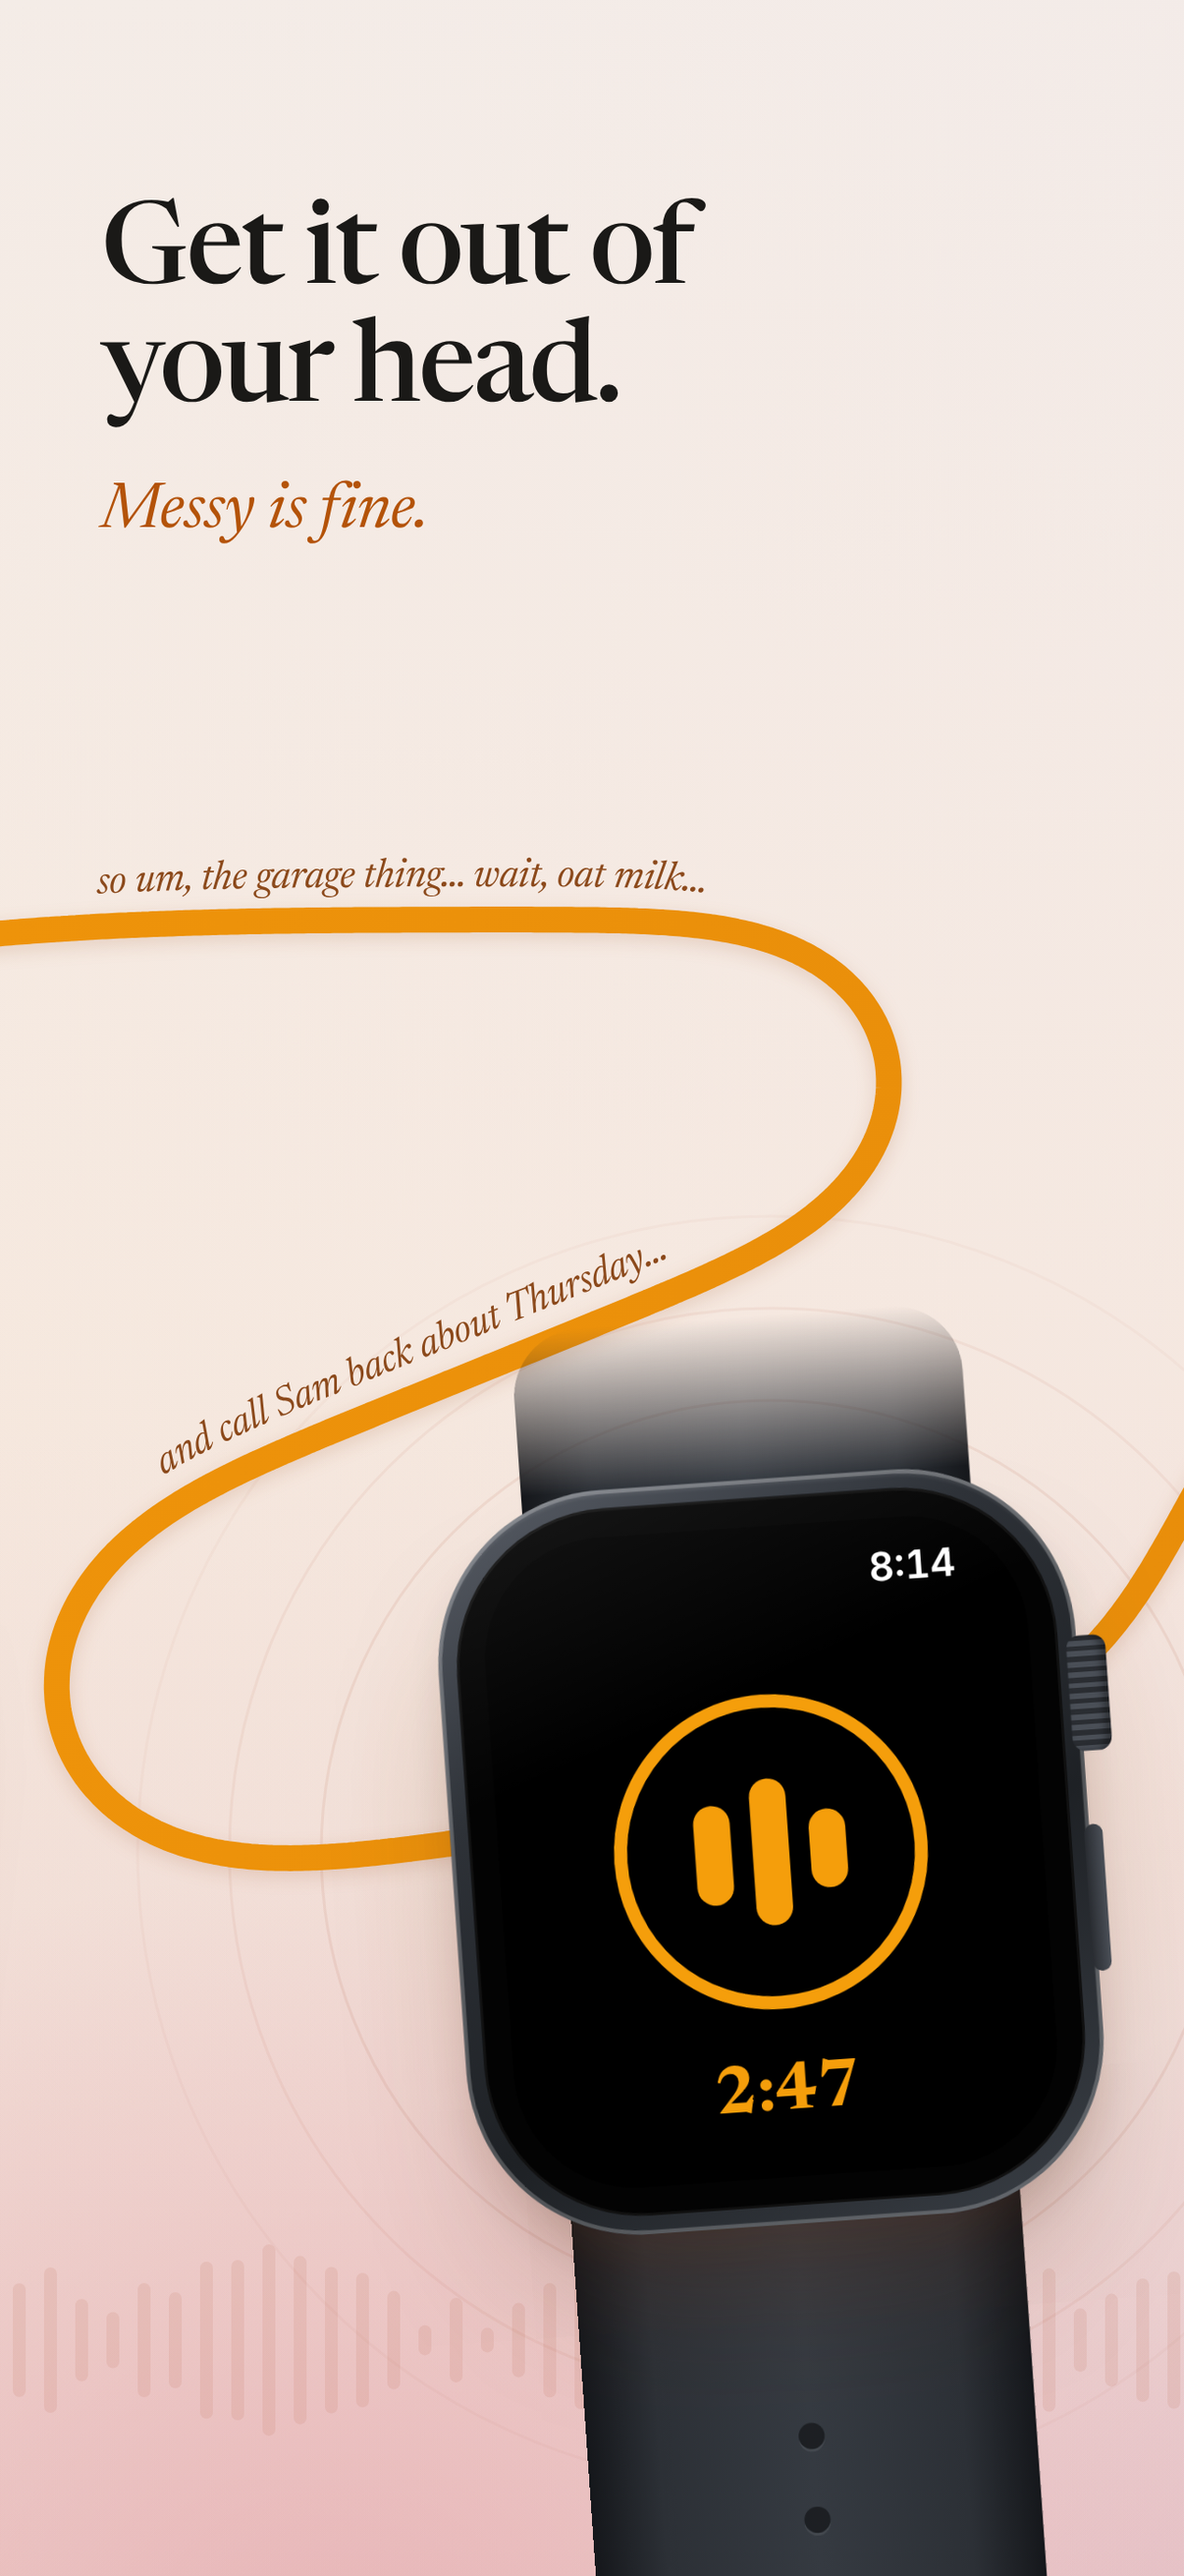
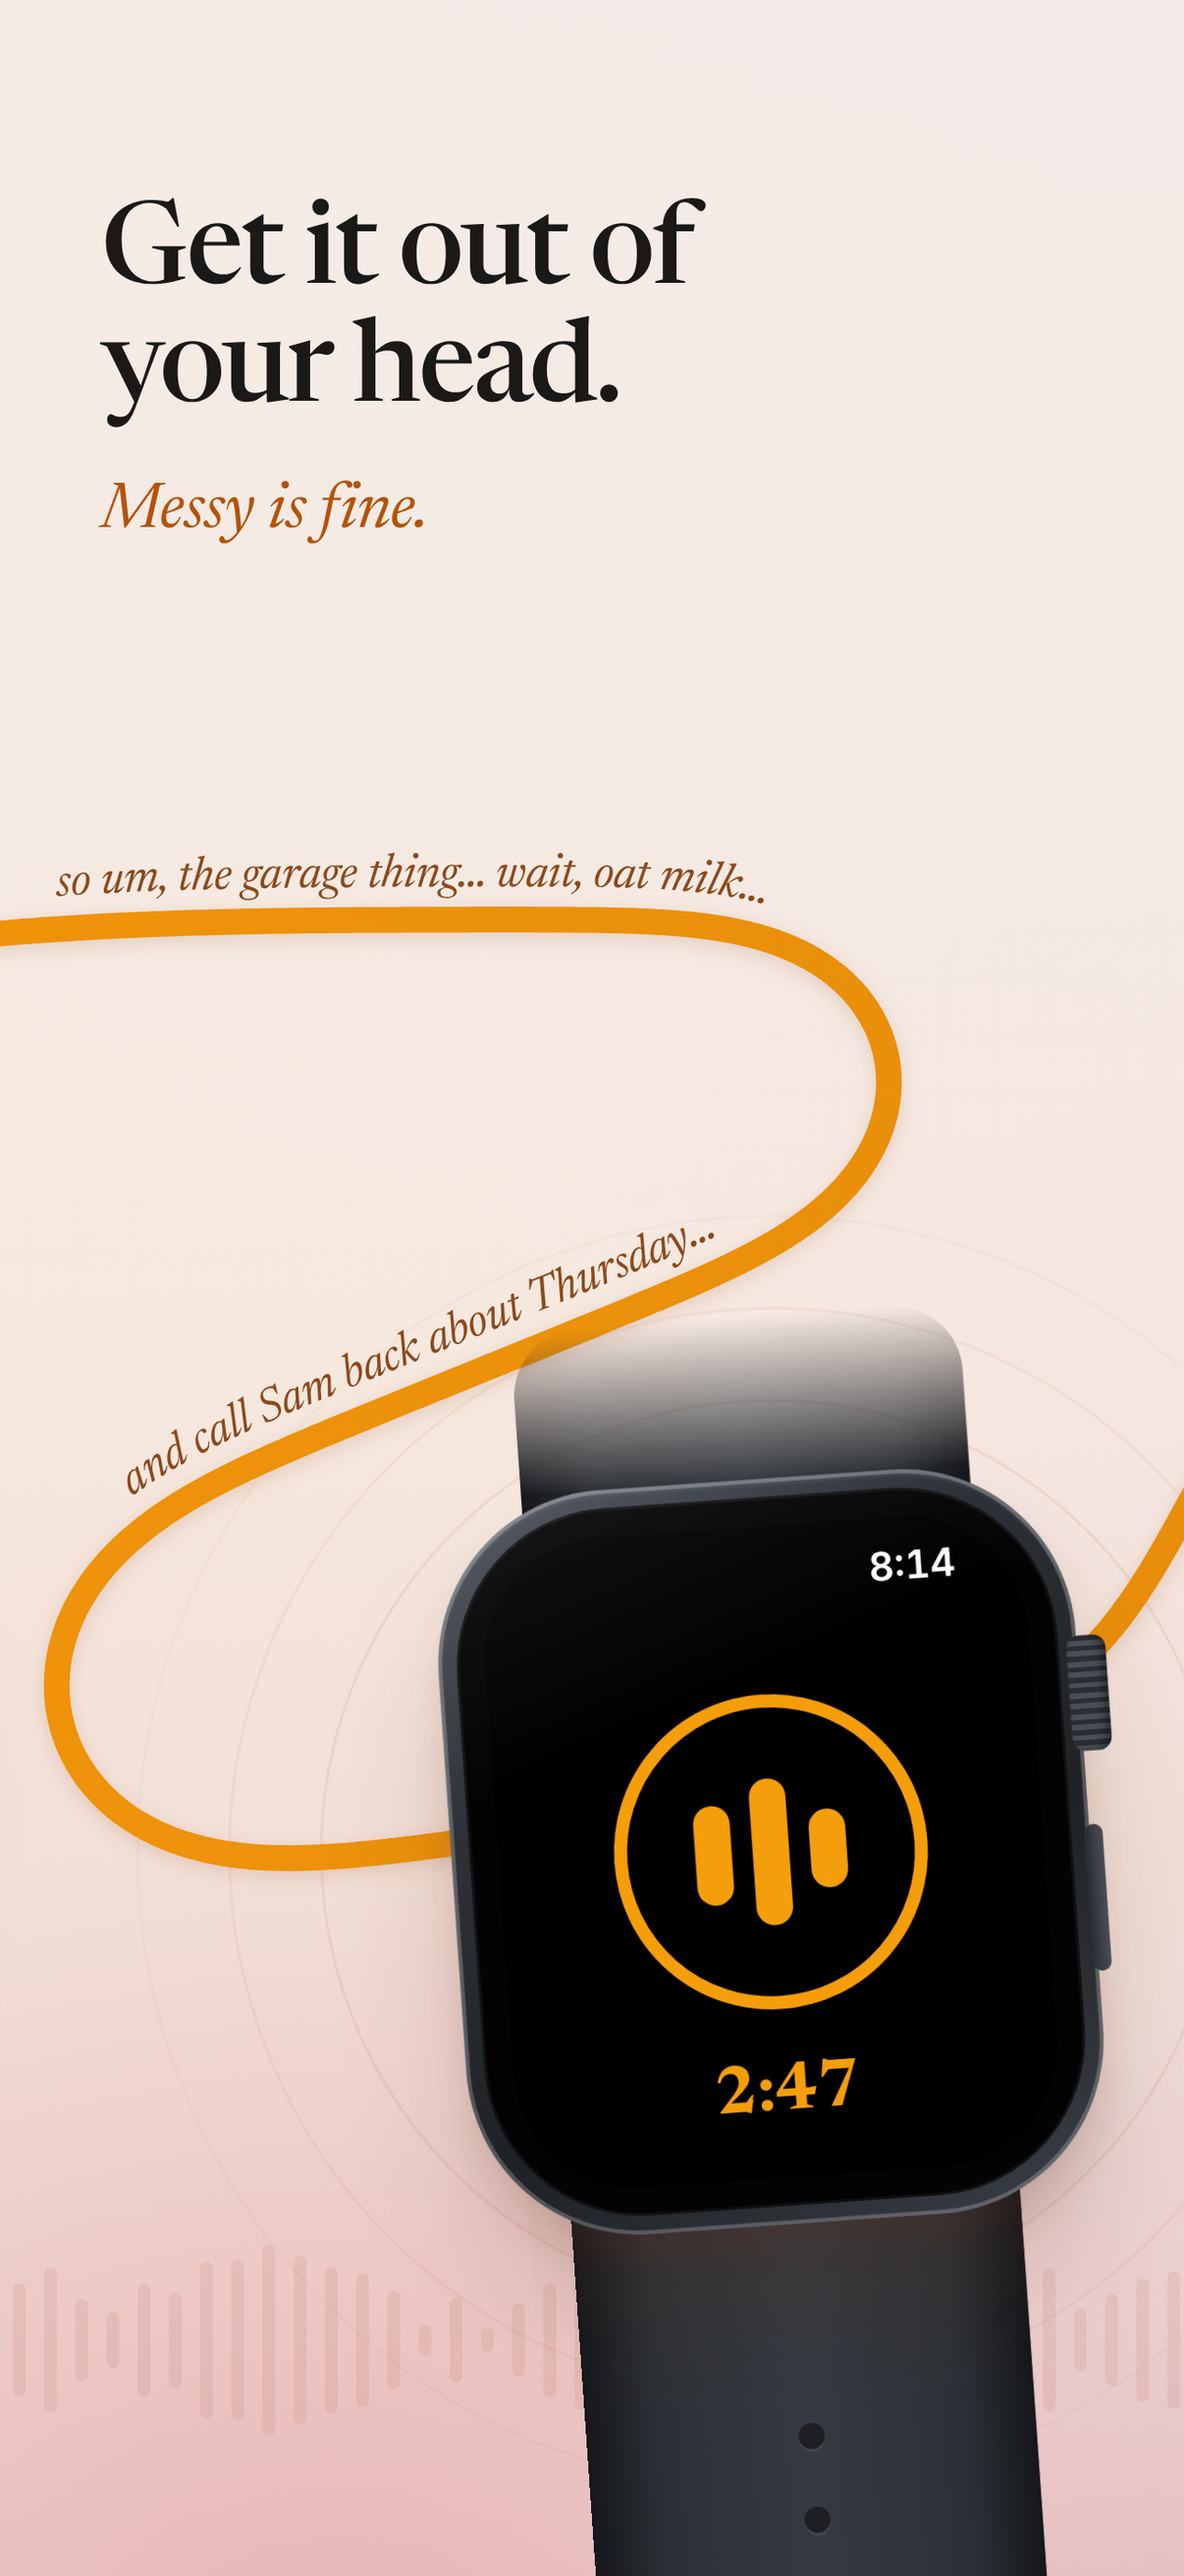
App Store screenshots: bigger words in frame 3
Claude-Session: https://claude.ai/code/session_01TreUG6Gw8YWAnJM4u7RM4H

diff --git a/images/appstore/2026-sunset/source/one-line.html b/images/appstore/2026-sunset/source/one-line.html
@@ -794,9 +794,9 @@ const sSolid = sAtX(2480), sNodeF = L;
   const thin = nodesToPath([[pN.x + 24, pN.y + 1.5, 4, 0, 50], [5470, 1628, 0, 50, 80], [5720, 1628, 0, 80, 0]]);
   el('path', { d: thin, fill: 'none', 'stroke-width': 8, 'stroke-linecap': 'round' });
 }
-say('wA', sNear(2650, 1008), sNear(3380, 1000), 'so um, the garage thing… wait, oat milk…');
-const sB0f = sNear(3341, 1391, sNear(3539, 1262));
-say('wB', sB0f, sNear(2760, 1640, sB0f), 'and call Sam back about Thursday…');
+say('wA', sNear(2620, 1014), sNear(3430, 1012), 'so um, the garage thing… wait, oat milk…');
+const sB0f = sNear(3450, 1335, sNear(3539, 1262));
+say('wB', sB0f, sNear(2700, 1700, sB0f), 'and call Sam back about Thursday…');
 } else {
 // 1) F1: evenly spaced voice bars easing down into the line
 const BARS1 = 7;
@@ -832,7 +832,7 @@ say('wB', sB0, sNear(2850, 1195, sB0), 'and call Sam back about Thursday…');
 }
 // one size for both runs: the largest that fits the longer one
 function fitWords() {
-  let size = 60;
+  let size = LINE === 'flow' ? 78 : 60;
   for (const [t, len] of said) {
     const tmp = el('text', { 'font-size': 60, x: 0, y: -100 }, words); tmp.textContent = t.textContent;
     size = Math.min(size, 60 * (len - 30) / tmp.getComputedTextLength()); tmp.remove();
